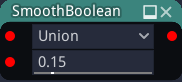
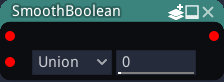
make 3d sdf boolean nodes variadic

diff --git a/material_maker/doc/node_3d_sdf_operators_smoothboolean.rst b/material_maker/doc/node_3d_sdf_operators_smoothboolean.rst
@@ -11,7 +11,9 @@ smooth boolean node applies them to the output.
 Inputs
 ::::::
 
-The **SmoothBoolean** node accepts 2 inputs in signed distance function format.
+The **SmoothBoolean** node accepts two or more inputs in signed distance function format.
+
+This node is variadic, and more shapes can be added.
 
 Outputs
 :::::::

diff --git a/material_maker/doc/node_3d_sdf_operators_boolean.rst b/material_maker/doc/node_3d_sdf_operators_boolean.rst
@@ -11,7 +11,9 @@ boolean node applies them to the output.
 Inputs
 ::::::
 
-The **Boolean** node accepts 2 inputs in 3D signed distance function format.
+The **Boolean** node accepts two or more inputs in 3D signed distance function format.
+
+This node is variadic, and more shapes can be added.
 
 Outputs
 :::::::
